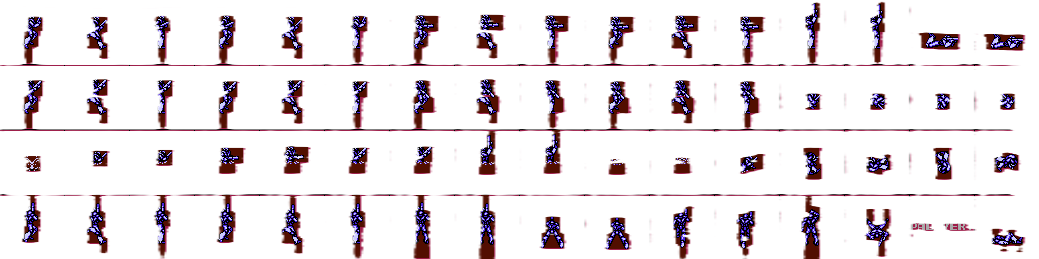
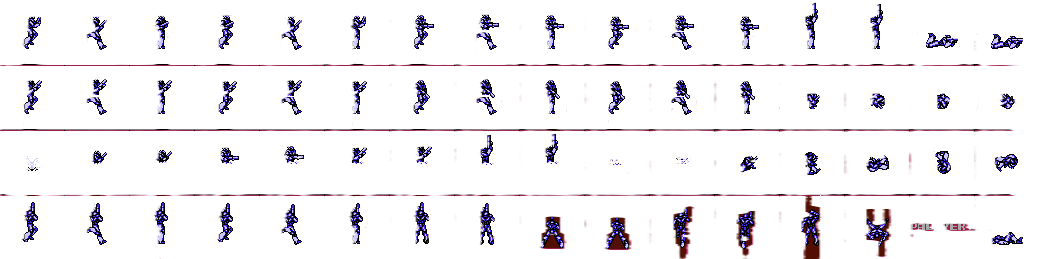
update: file uploads from Eve

diff --git a/src/main/java/se233/kellion/view/GameView.java b/src/main/java/se233/kellion/view/GameView.java
@@ -19,6 +19,7 @@ public class GameView {
     private static final int SKY_TILE_SIZE = 16;
     private static final int GRASS_HEIGHT = 16;
     private static final int SOIL_HEIGHT = 32;
+    private static final int WATER_TILE_HEIGHT = 16;
     private List<ImageView> bullets = new ArrayList<>();
     private WritableImage bulletSprite;
     private static final int BULLET_SPEED = 5;
@@ -28,6 +29,12 @@ public class GameView {
         Image tileset = new Image(getClass().getResource("/se233/kellion/assets/Stage_1.png").toExternalForm());
         WritableImage grassTile = new WritableImage(tileset.getPixelReader(), 0, 0, TILE_SIZE, GRASS_HEIGHT);
         WritableImage soilTile = new WritableImage(tileset.getPixelReader(), 256, 0, TILE_SIZE, SOIL_HEIGHT);
+        Image waveset = new Image(getClass().getResource("/se233/kellion/assets/Wave.png").toExternalForm());
+        WritableImage waterTile = new WritableImage(waveset.getPixelReader(), 0, 16, TILE_SIZE, TILE_SIZE);
+        WritableImage[] waveTiles = new WritableImage[]{
+                new WritableImage(waveset.getPixelReader(), 0, 0, TILE_SIZE, WATER_TILE_HEIGHT),
+                new WritableImage(waveset.getPixelReader(), 32, 0, TILE_SIZE, WATER_TILE_HEIGHT),
+        };
 
         // Sky tiles: crop 5 randomizable 16x16 starting from (48,48)
         WritableImage[] skyTiles = new WritableImage[5];
@@ -35,7 +42,7 @@ public class GameView {
             skyTiles[i] = new WritableImage(tileset.getPixelReader(), 48 + SKY_TILE_SIZE * i, 48, SKY_TILE_SIZE, SKY_TILE_SIZE);
 
         // Set the groundY so that grass and soil fill the lower part of the window
-        int groundY = 480; // Top of grass
+        int groundY = 368; // Top of grass
         int skyRows = groundY / SKY_TILE_SIZE;
         int skyCols = WINDOW_WIDTH / SKY_TILE_SIZE;
         java.util.Random rand = new java.util.Random();
@@ -54,6 +61,7 @@ public class GameView {
 
         // Draw grass and soil across bottom
         int groundCols = WINDOW_WIDTH / TILE_SIZE;
+        int SOIL_LAYERS = 1;
         for (int col = 0; col < groundCols; col++) {
             int x = col * TILE_SIZE;
 
@@ -64,10 +72,43 @@ public class GameView {
             root.getChildren().add(grassView);
 
             // Soil directly below
-            ImageView soilView = new ImageView(soilTile);
-            soilView.setX(x);
-            soilView.setY(groundY + GRASS_HEIGHT);
-            root.getChildren().add(soilView);
+            int currentY = groundY + GRASS_HEIGHT;
+            for (int i = 0; i < SOIL_LAYERS && currentY < WINDOW_HEIGHT; i++) {
+                ImageView soilView = new ImageView(soilTile);
+                soilView.setX(x);
+                soilView.setY(currentY);
+                root.getChildren().add(soilView);
+                currentY += SOIL_HEIGHT;
+            }
+
+            // Fill Wave surface
+            int waterStartY = currentY;
+            int rows = (int) Math.ceil((double)(WINDOW_HEIGHT - waterStartY) / WATER_TILE_HEIGHT);
+            int cols = WINDOW_WIDTH / TILE_SIZE;
+
+            for (int c = 0; c < cols; c++) {
+                int X = c * TILE_SIZE;
+                int idx = c % 2;
+                ImageView wave = new ImageView(waveTiles[idx]);
+                wave.setX(X);
+                wave.setY(waterStartY);
+                wave.setSmooth(false);
+                root.getChildren().add(wave);
+            }
+
+            //Fill water
+            int Y = waterStartY + WATER_TILE_HEIGHT;
+            while (Y < WINDOW_HEIGHT) {
+                for (int c = 0; c < cols; c++) {
+                    int X = c * TILE_SIZE;
+                    ImageView deep = new ImageView(waterTile);
+                    deep.setX(X);
+                    deep.setY(Y);
+                    deep.setSmooth(false);
+                    root.getChildren().add(deep);
+                }
+                Y += (WATER_TILE_HEIGHT - 1);
+            }
         }
 
         // Place player just above the grass level
